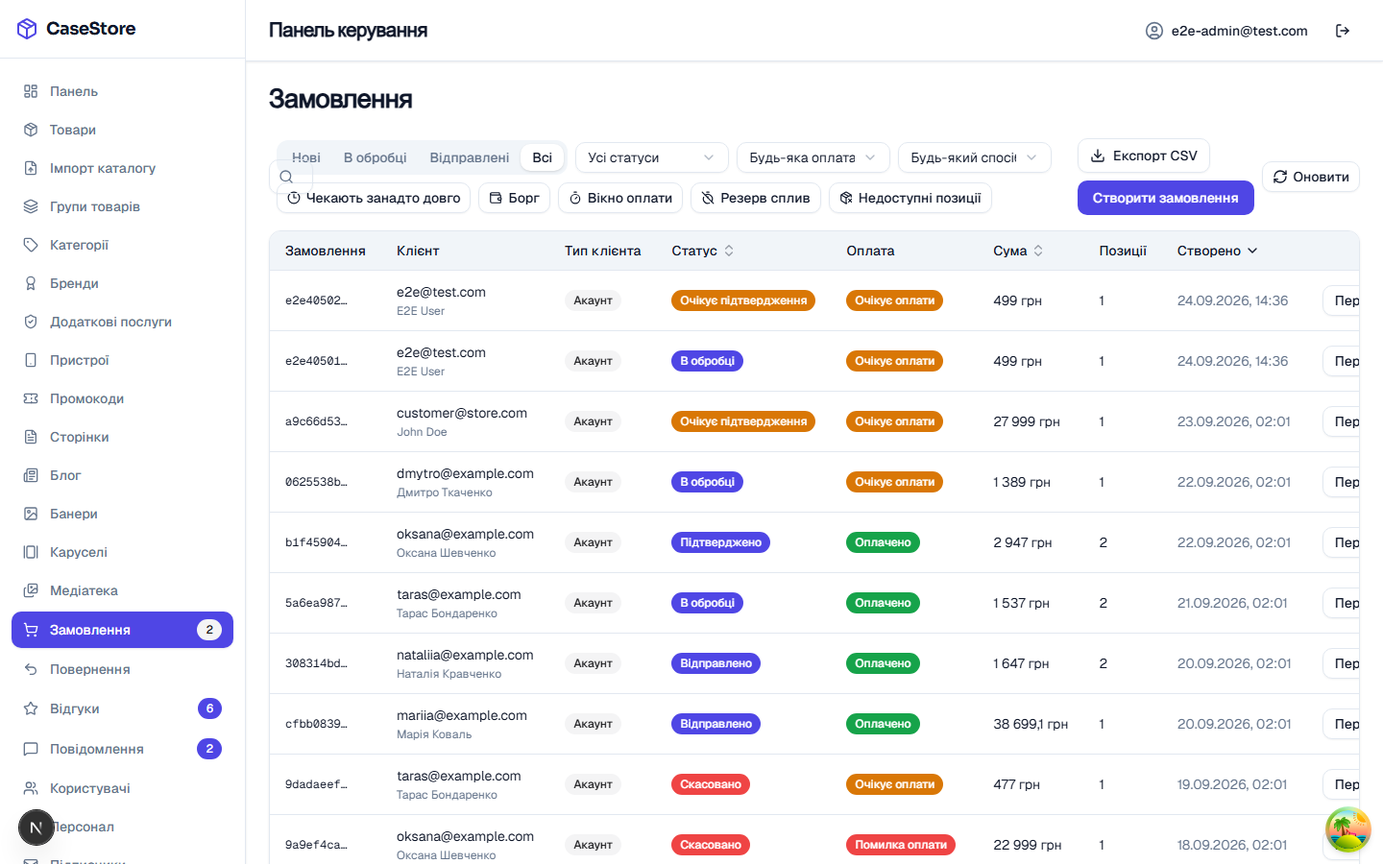
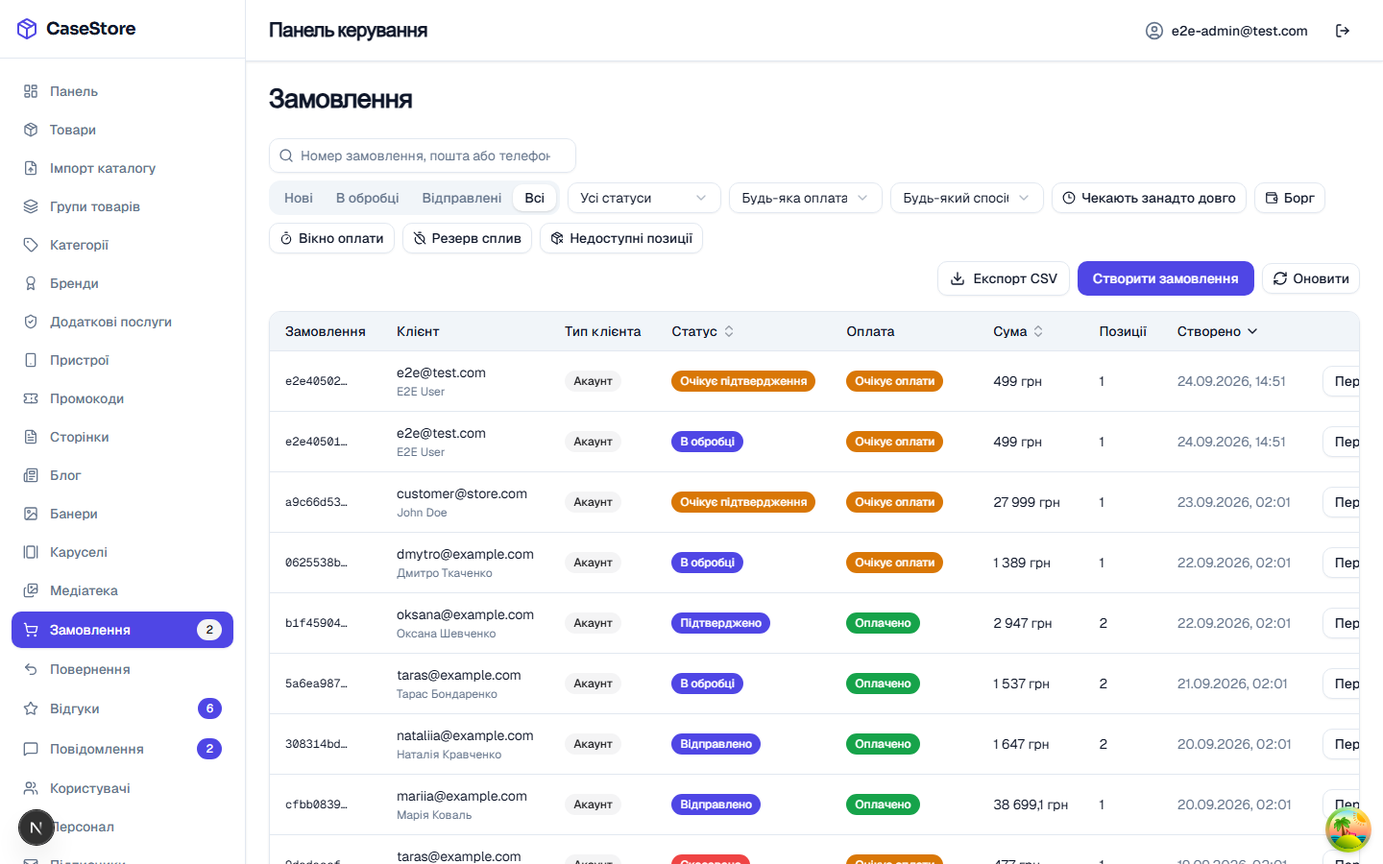
docs(backlog): close TASK-732 via toolbar re-fix and settle wave 190 follow-ups

diff --git a/BACKLOG.md b/BACKLOG.md
@@ -987,7 +987,7 @@
 | TASK-527 | [безпека 🔴, знайдено в TASK-419] `apps/store-admin/src/features/admin-auth/ui/login-form.tsx:54` має рівно ту дірку відкритого редиректу, яку щойно закрито на вітрині: `redirectParam.startsWith("/")` пропускає `//evil.com` (і `/\evil.com`, який браузер нормалізує в те саме) — протокол-відносний URL, який Next-роутер резолвить у ЧУЖИЙ origin і виконує справжню навігацію. Тобто `/login?redirect=//evil.com` = адміністратор вводить справжні креденшли на нашій сторінці й опиняється на сторінці атакувальника. Лікування вже написане: `apps/store-client/src/features/auth/lib/sanitize-redirect-target.ts` (дзеркало серверного `apps/store-api/src/auth/oauth/sanitize-redirect-target.ts`) — перенести копію + тест на `//evil.com`. `apps/store-admin/**` поза смугою TASK-419 — **зроблено 2026-09-24:** адмінка отримала копію полагодженого санітайзера TASK-770 (TAB/LF/CR, `//`, `/\`) для обох шляхів — після входу й для вже залогіненого (df23ee15) | ✅ | [190](docs/plans/190-red-wave-ci-security-money.md) |
 | TASK-550 | [🔴 SEO] `noindexSite` не noindex-ить: `robots.ts` віддає `Disallow: /`, але page-level `robots` не виставляє ніхто, а `llms.txt`, `sitemap.xml` і `merchant-feed.xml` далі віддають 200. Тобто «вимкнути індексацію» на staging не працює так, як обіцяє назва прапорця — **зроблено 2026-09-24:** кореневий layout ставить `robots {index:false, follow:false}` за `noindexSite`, `sitemap.xml` віддає порожній urlset, `llms.txt` і `merchant-feed.xml` — порожній 404 з `no-store`; guard-тест не дає дочірній сторінці повернути `index` (28f81640) | ✅ | [190](docs/plans/190-red-wave-ci-security-money.md) |
 | TASK-583 | [безпека, 🟡] Захист від пиксель-бомби в завантаженні зображень (TASK-424) спирається на дефолтний ліміт `sharp` (~268 млн пікселів), а не на явний `limitInputPixels`. Сьогодні працює правильно, але це неявна залежність від дефолту бібліотеки: глобальний sharp-конфіг або оновлення з іншим дефолтом приберуть ліміт, і в діффі `image-processor.service.ts` цього не буде видно. Задати ліміт явно, з коментарем «чому», і накрити тестом разом із хард-кепом multer (15 МБ) і `LIMIT_FILE_COUNT` — статус-коди для них зараз виведені з коду Nest, а не з прогону. **Частково зроблено в TASK-439:** `MAX_INPUT_PIXELS` задано явно + мок-тест; **у TASK-586** стелю знижено до 60 Mpx і додано межу конкурентності декодування; лишились прогінні тести на хард-кеп multer (тепер 25 МБ) і `LIMIT_FILE_COUNT` — саме вони й досі виведені з коду Nest, а не з прогону — **зроблено 2026-09-24:** e2e на галереї прогоном пришпилили хард-кеп multer (25 МБ проходить, +1 байт → 413 `File too large`) і `LIMIT_FILE_COUNT` (10 → 201, 11 → 400 `Too many files`), коментар «чому» біля `limitInputPixels` (19d0b732) | ✅ | [190](docs/plans/190-red-wave-ci-security-money.md) |
-| TASK-587 | [ревʼю 177, 🟡] GIF-passthrough (`image-upload.service.ts`) зберігає байти клієнта дослівно — без `sharp`, отже без стрипу метаданих (XMP/Comment Extension). Гарантія «EXIF не виживає», яку дає TASK-439, стосується лише растрового шляху JPEG/PNG/WebP, не GIF. Успадковано з TASK-091/424, цією хвилею не внесено; перекодування вбило б анімацію, заради якої passthrough і існує. Варіанти: стрипати метадані без перекодування кадрів або лишити як є і задокументувати межу гарантії — **частково 2026-09-24:** метадані GIF знімаються без перекодування кадрів, памʼять O(input) (bcd2650e, 129a540c, 11bd853e); лишилось виправити застарілі коментарі «client bytes verbatim» у `image-upload.constants.ts:20-23` і `image-processor.service.ts:225-226` | 🔄 | [190](docs/plans/190-red-wave-ci-security-money.md) |
+| TASK-587 | [ревʼю 177, 🟡] GIF-passthrough (`image-upload.service.ts`) зберігає байти клієнта дослівно — без `sharp`, отже без стрипу метаданих (XMP/Comment Extension). Гарантія «EXIF не виживає», яку дає TASK-439, стосується лише растрового шляху JPEG/PNG/WebP, не GIF. Успадковано з TASK-091/424, цією хвилею не внесено; перекодування вбило б анімацію, заради якої passthrough і існує. Варіанти: стрипати метадані без перекодування кадрів або лишити як є і задокументувати межу гарантії — **зроблено 2026-09-24:** метадані GIF знімаються без перекодування кадрів (`storage/strip-gif-metadata.ts`), памʼять O(input) (bcd2650e, 129a540c, 11bd853e); коментарі політики GIF оновлено (e77368c9) | ✅ | [190](docs/plans/190-red-wave-ci-security-money.md) |
 | TASK-606 | [🟡 безпека] `GET /api/orders/guest/:token` (`order.controller.ts:231`) має `@Throttle(20/хв)`, але **не** має `@FailClosedThrottle()`: за відмови Redis публічний токен-ендпоінт лишається без ліміту, тобто стає оракулом для перебору — рівно урок TASK-464 і TASK-493. Сусідній `POST /orders/lookup` цієї хвилі закритий правильно, тож зразок уже поруч — **зроблено 2026-09-24:** `@FailClosedThrottle()` на маршруті, e2e на справжньому `OrderController` (503 за мертвого Redis, сервіс не викликано), `POST /orders/lookup` дописано у список fail-closed маршрутів (5425e9dc) | ✅ | [190](docs/plans/190-red-wave-ci-security-money.md) |
 | TASK-616 | [🔴 CI, передіснуюче] `test/order-restock.repository.int-spec.ts` не піднімається: «Nest can't resolve dependencies of the OrderRepository (PrismaService, CacheService, ?) … ProductIndexer at index [2]». `OrderRepository` отримав третю залежність (`ProductIndexer`, `order.repository.ts:184`) ще **до** цієї хвилі, а `TestingModule` у спеці досі дає лише два провайдери; далі `afterEach` падає вдруге на `prisma.orderStatusHistory`, бо `prisma` так і лишився undefined. 4 тести. Доведено передіснуючим: спека не згадує `ProductIndexer` ні тут, ні на `develop` (`git show develop:…` → 0 збігів), а сама вона цією хвилею не чіпалась. Правка — додати `{ provide: ProductIndexer, useValue: { indexProduct: jest.fn(), … } }` у providers — **зроблено 2026-09-24:** у спеку додано мок `ProductIndexer` (`index`/`remove`, `satisfies ProductIndexer`), teardown прибирає лише свої рядки і не падає вдруге — int 4/4 на store_test (df2cfe3f) | ✅ | [190](docs/plans/190-red-wave-ci-security-money.md) |
 | TASK-617 | [🔴 CI, передіснуюче] `test/dashboard.repository.int-spec.ts` → `getNeedsAction` очікує `pendingReviews = 1`, отримує 0. Хвиля 183 (`e0aa1def`, уже на `develop`) змінила предикат черги модерації в `review.constants.ts`, але int-спеку під нього не оновила; `review.constants.ts` у цій гілці побайтово той самий, що на `develop`, а спеку ми не чіпали. **Як це взагалі знайшлось:** int-тести не ганялись — GitHub Actions заблоковано за білінгом з 2026-07-07, тож джоб `test-int` червоний і невидимий. Заодно виявилось, що спільна `store_test` уже перебрана хвилею 181 (у ній є `20260914140000_access_model`, `20260914160000_drop_role_permissions`, `20260915120000_backfill_customers_card_permission` і немає `role_permissions`), тому прогін цієї хвилі робився на окремій `store_test_180` — дві паралельні гілки ділять одну тестову базу, і це варто розвести через `DATABASE_URL_TEST` на хвилю — **зроблено 2026-09-24:** фікстура дала обом відгукам текст (PENDING — «Awaiting moderation», APPROVED — «Already moderated»), код не чіпали; `test:int -- dashboard` 12/12 (b5a84e68) | ✅ | [190](docs/plans/190-red-wave-ci-security-money.md) |
@@ -1007,7 +1007,7 @@
 | TASK-772 | [🔴 дані, auth] Email не нормалізується (`email String @unique` на `text`, без citext): реєстрація `A@Gmail.com` + вхід через Google `a@gmail.com` створює **другий акаунт**. `@Transform(trim+toLowerCase)` на 4 DTO + міграція-бекфіл; `RegisterDto.email` без `@MaxLength` — **зроблено 2026-09-24:** спільний `normalizeEmail` на всіх 11 email-полях DTO + Google-вхід, створення персоналу і CLI `create-admin`, `@MaxLength(254)` на реєстрації, міграція-бекфіл `users`/`contact_messages` зупиняється на колізіях за регістром (f54c21af, 421798fb) | ✅ | [190](docs/plans/190-red-wave-ci-security-money.md) |
 | TASK-773 | [🔴 вітрина, чекаут] Провал refresh скидає токен у модульній змінній (`instance.ts:284`), але не `isAuthenticated` (`auth.context.tsx:158`) — блок email не рендериться, замовлення йде без `contact` і без `Authorization` → 400 англійською, вихід лише F5. Робити разом із TASK-794 — **зроблено 2026-09-24:** провал refresh у перехоплювачі шле `onSessionExpired`, `AuthProvider` обнуляє сесію (маркер лишається на 429/5xx), чекаут показує гостьовий блок і відкочується на післяплату; кеш запитів при цьому не чиститься — TASK-886 (8c084996) | ✅ | [190](docs/plans/190-red-wave-ci-security-money.md) |
 | TASK-774 | [🔴 дані, імпорт] `excludeAllConflicts` (`use-import-decisions.ts:73-86`) будує мапу з нуля і **замінює** попередню — ручні зняття галочок оператора зникають, написані руками описи перезаписуються й лягають у журнал як застосовані. Фікс: `new Map(previous)` як база — **зроблено 2026-09-24:** «виключити всі конфлікти» тепер додає конфліктні поля до копії попереднього стану (набори рядків копіюються), ручні зняття галочок зберігаються, 2 нові тести (3ead414d) | ✅ | [190](docs/plans/190-red-wave-ci-security-money.md) |
-| TASK-775 | [🔴 адмінка, верстка] `table-toolbar.tsx:80` має `flex-col` без пари `md:flex-row` — 24 тулбари списків стоять колонкою на всіх ширинах. Регресія коміту `be2da26e` «change store name» (2026-09-17). **Корінь TASK-732** — після фікса перепровірити і, ймовірно, закрити його — **зроблено 2026-09-24:** тулбар — колонка до `md`, рядок від `md`, пошук `md:flex-1`, 4 тести; перевірка TASK-732 на 1440 px — AD-ORD-49 (d88c026f) | ✅ | [190](docs/plans/190-red-wave-ci-security-money.md) |
+| TASK-775 | [🔴 адмінка, верстка] `table-toolbar.tsx:80` має `flex-col` без пари `md:flex-row` — 24 тулбари списків стоять колонкою на всіх ширинах. Регресія коміту `be2da26e` «change store name» (2026-09-17). **Корінь TASK-732** — після фікса перепровірити і, ймовірно, закрити його — **зроблено 2026-09-24:** тулбар — колонка до `md`, рядок від `md`, пошук `md:flex-1`, 4 тести; перевірка TASK-732 на 1440 px — AD-ORD-49 (d88c026f); **дофікс 2026-09-24:** скриншоти «після» показали, що в рядку без переносу пошук замовлень стиснувся до 46 px під вкладками — рядок тепер `md:flex-wrap`, пошук `md:min-w-64`, заміряно 320 px у першому рядку (45626cb7, `docs/images/190/README.md`) | ✅ | [190](docs/plans/190-red-wave-ci-security-money.md) |
 | TASK-784 | [повернення, склад] Ліміт «не більше, ніж куплено» (`return.service.ts:313`) рахується поза транзакцією, а в БД немає ні унікального ключа, ні CHECK: два натискання «Подати заявку» дають дві заявки на 1 куплену одиницю, і `restock: true` по обох додає на склад товар, якого не повертали — **зроблено 2026-09-24:** `ReturnRepository.create` у транзакції блокує рядок замовлення (`FOR UPDATE`), перечитує живі повернення і лише тоді вставляє — з двох одночасних заявок на останню одиницю проходить одна (3bccfa4d) | ✅ | [190](docs/plans/190-red-wave-ci-security-money.md) |
 | TASK-785 | [повернення, гроші] `refundedAmount` (`resolve-return.dto.ts:46`) валідується лише формою — ні стелі по `order.total`, ні по вартості повернутих позицій, ні по вже виплаченому. `49900` замість `499.00` приймається, тече в `refundedTotal` і в звіти B-8. Межу продублювати в zod-схемі адмінки — **зроблено 2026-09-24:** бекенд у транзакції під `FOR UPDATE` на замовленні відхиляє суму понад вартість повернутих позицій (`RETURN_REFUND_EXCEEDS_RETURNED_VALUE`) і понад залишок замовлення за вирахуванням інших повернень (`RETURN_REFUND_EXCEEDS_ORDER_BALANCE`), 400 (adc6e2eb); zod-дзеркало в адмінці — **зроблено 2026-09-24:** стеля по вартості повернутих позицій у zod форми, 400 обох стель показується під полем суми (ea68ff48); стеля залишку замовлення у формі не підключена → TASK-959 | ✅ | [190](docs/plans/190-red-wave-ci-security-money.md) |
 | TASK-794 | [обидві апки, форми] «Мовчазна кнопка» ×5: блокуюче `max()` у zod на полі без рендеру помилки і без `maxLength` — `order-create-form.tsx:384-402`, `return-resolve-form.tsx:193-199`, `profile-form.tsx:93,100`, `submit-review-form.tsx:314` і латентно `checkout-view.tsx:128-149`. Останній **активує TASK-773**, тож робити разом. Зразок поруч: `checkout-view.tsx:267` — **частково 2026-09-24:** вітрина готова — профіль (ім'я/прізвище ≤100) і відгук (≤1000, лічильник) показують помилку й мають `maxLength`, заблокований сабміт на кроці 2 чекауту повертає на крок 1 з фокусом на полі (8c084996); адмінка — **зроблено 2026-09-24:** `order-create-form` (примітки ≤500/≤2000) і `return-resolve-form` (нотатки ≤2000) мають `maxLength`, `aria-invalid` і помилку під полем (ea68ff48) | ✅ | [190](docs/plans/190-red-wave-ci-security-money.md) |
@@ -1037,8 +1037,8 @@
 | TASK-955 | [знайдено в TASK-623] Уже видані операторські посилання на акаунтні замовлення лишаються дійсними: `getGuestOrder` (`apps/store-api/src/order/order.service.ts:532-553`) не перевіряє `userId`, а відкликання/бекфілу, що чистить `accessTokenHash` на акаунтних замовленнях, які отримали лінк старим шляхом перевидачі, немає — експозиція живе до кінця 60-денного TTL. Потрібна одноразова очистка або перевірка `userId === null` у `getGuestOrder` | ⬜ | [190](docs/plans/190-red-wave-ci-security-money.md) |
 | TASK-971 | [знайдено в TASK-583] GIF-passthrough не обмежує розміри кадру: `probe()` і `detectFormat()` (`image-processor.service.ts:232`, `:252`) викликають `sharp(buffer).metadata()` без `limitInputPixels` — бомби декодування немає (читається лише заголовок), але анімований GIF 60000×60000 зберігається й віддається як є, декодує його браузер клієнта. Вирішити, чи `probe()` має відхиляти розміри понад `MAX_INPUT_PIXELS` (стрип метаданих GIF — окремо, TASK-587) | ⬜ | [190](docs/plans/190-red-wave-ci-security-money.md) |
 | TASK-972 | [знайдено в TASK-583] [тести] Прогінні e2e пришпилюють ліміти multer лише на галереї (`FilesInterceptor`, 10 файлів); одно-файлові маршрути зі спільним `imageMulterOptions` — `media.controller.ts:127` (SINGLE_FILE) і `admin-seo-settings.controller.ts:138` (логотип) — не мають прогінного тесту на ліміт у 1 файл | ⬜ | [190](docs/plans/190-red-wave-ci-security-money.md) |
-| TASK-884 | [знайдено в TASK-775] Застарілий коментар про `md:flex-nowrap` у тулбарі: `apps/store-admin/src/widgets/order-list/ui/admin-order-table.tsx:148` згадує клас `md:flex-nowrap`, який d88c026f прибрав із `table-toolbar.tsx`; зміст досі правдивий (flex-рядок від `md` не переноситься за замовчуванням), але назва класу вже неіснуюча — оновити коментар | ⬜ | [190](docs/plans/190-red-wave-ci-security-money.md) |
-| TASK-885 | [знайдено в TASK-774] Хибний шлях хука в плані 190: `docs/plans/190-red-wave-ci-security-money.md:36` (файли смуги R-admin) називає `features/catalog-import/model/use-import-decisions.ts`, а файл лежить у `apps/store-admin/src/widgets/catalog-import-view/model/use-import-decisions.ts` (так і в ревʼю `docs/reviews/2026-09-code-review.md:149`); лише документація — виправити шлях | ⬜ | [190](docs/plans/190-red-wave-ci-security-money.md) |
+| TASK-884 | [знайдено в TASK-775] Застарілий коментар про `md:flex-nowrap` у тулбарі: `apps/store-admin/src/widgets/order-list/ui/admin-order-table.tsx:148` згадує клас `md:flex-nowrap`, який d88c026f прибрав із `table-toolbar.tsx`; зміст досі правдивий (flex-рядок від `md` не переноситься за замовчуванням), але назва класу вже неіснуюча — оновити коментар — **закрито 2026-09-24:** коментар переписано разом із дофіксом тулбару (45626cb7) | ✅ | [190](docs/plans/190-red-wave-ci-security-money.md) |
+| TASK-885 | [знайдено в TASK-774] Хибний шлях хука в плані 190: `docs/plans/190-red-wave-ci-security-money.md:36` (файли смуги R-admin) називає `features/catalog-import/model/use-import-decisions.ts`, а файл лежить у `apps/store-admin/src/widgets/catalog-import-view/model/use-import-decisions.ts` (так і в ревʼю `docs/reviews/2026-09-code-review.md:149`); лише документація — виправити шлях — **закрито 2026-09-24:** шлях у плані 190 виправлено | ✅ | [190](docs/plans/190-red-wave-ci-security-money.md) |
 | TASK-886 | [знайдено в TASK-773] Після провалу refresh кеш запитів не чиститься: новий слухач лише обнуляє стан React (`auth.context.tsx:136`, `dropSessionState`), а явні виходи роблять `queryClient.clear()` (`header.tsx:67-68`, `header-auth.tsx:30-31`, `logout-button.tsx:17-18`). Ключ `getGetCartQueryKey()` не залежить від користувача, тож чекаут гостем показує кошик колишнього користувача, а гостьовий `cartToken` стерто при злитті кошика на вході (`auth.controller.ts:648-653`) → «Оформити» дає 400 англійською `Cart is empty` (`order.service.ts:275`). Тести `checkout-view` цього не ловлять — мокають `GET /api/cart` однаково для всіх. Глухий кут C4 закрито лише наполовину | ⬜ | [190](docs/plans/190-red-wave-ci-security-money.md) |
 | TASK-887 | [знайдено в TASK-773] Схема чекауту без стель під бекенд: `features/checkout/model/checkout-schema.ts` має лише `min(1)` на firstName/lastName/city/deliveryAddress і жодного `max` на гостьовому email, а `address.dto.ts` обмежує 100/100/…/255, `guest-contact.dto.ts` — email 254 і name 120 (firstName+lastName разом). Задовге значення проходить клієнт і вертається 400 англійською під кнопкою замість помилки поля — той самий клас, що W19, лише гучний | ⬜ | [190](docs/plans/190-red-wave-ci-security-money.md) |
 | TASK-888 | [знайдено в TASK-773] Шоста «мовчазна кнопка» класу W19: `widgets/contact/model/contact-schema.ts:35` — `orderRef: z.string().trim().max(120).optional()` без повідомлення, а поле в `widgets/contact/ui/contact-form.tsx:235-239` без `maxLength` і без рендеру помилки → номер замовлення 121+ символ мовчки блокує надсилання (`topic max(60)` задається лише кнопками — недосяжний) | ⬜ | [190](docs/plans/190-red-wave-ci-security-money.md) |
@@ -1047,7 +1047,7 @@
 | TASK-890 | [знайдено в TASK-772] Неефективний обхід тротлера в e2e store-api: 33 спеки в `apps/store-api/test` (cart, user, staff, review, returns, newsletter…) роблять `.overrideProvider(APP_GUARD).useClass(ThrottlerGuardPassThrough)`, але це не доходить до глобального `ClientIpThrottlerGuard` (задокументовано в `order.e2e-spec.ts`) — кожна з них за один запит під `@Throttle` від хибних 429; перевести на override `ThrottlerStorage`, як у `auth.e2e-spec.ts` | ⬜ | [190](docs/plans/190-red-wave-ci-security-money.md) |
 | TASK-891 | [знайдено в TASK-772] Email власника в сіді не нормалізується: `apps/store-api/prisma/seed/seeders/users.seeder.ts:75` робить upsert із сирим `ADMIN_SEED_EMAIL` — значення в змішаному регістрі створить рядок, якого (тепер нормалізуючий) вхід не знайде; фікс в один рядок `normalizeEmailAddress(...)`, як у `create-admin.ts` | ⬜ | [190](docs/plans/190-red-wave-ci-security-money.md) |
 | TASK-892 | [знайдено в TASK-772] Подвійне приведення email у `ContactService`: `apps/store-api/src/contact/contact.service.ts:101` робить `dto.email.trim().toLowerCase()` для перевірки кулдауна, хоча DTO вже нормалізує; нешкідливо — прибрати при чистці | ⬜ | [190](docs/plans/190-red-wave-ci-security-money.md) |
-| TASK-893 | [знайдено в TASK-772] Orval-клієнти не перегенеровані під `maxLength: 254` на `RegisterDto.email`: `swagger.json` уже містить обмеження, а `shared/api/generated/` у store-client і store-admin — ні (codegen заборонено смугою); прогнати `generate:api` після хвилі й звірити zod-схему реєстрації | ⬜ | [190](docs/plans/190-red-wave-ci-security-money.md) |
+| TASK-893 | [знайдено в TASK-772] Orval-клієнти не перегенеровані під `maxLength: 254` на `RegisterDto.email`: `swagger.json` уже містить обмеження, а `shared/api/generated/` у store-client і store-admin — ні (codegen заборонено смугою); прогнати `generate:api` після хвилі й звірити zod-схему реєстрації — **частково 2026-09-24:** `swagger:export` + `generate:api` прогнано після хвилі (згенероване в gitignore, комітити нічого); лишилось: zod реєстрації вітрини (`features/auth/ui/register-form.tsx:21`) без `.max(254)` — задовгий email дістане від API 400 без підказки під полем | 🔄 | [190](docs/plans/190-red-wave-ci-security-money.md) |
 | TASK-943 | [знайдено в TASK-772] Два нормалізатори email не тотожні: міграція `20260924120000_normalize_user_email` використовує Postgres `trim()` (лише пробіли), а `normalizeEmailAddress` — JS `String.trim()` (ще таби й NBSP); для наявних рядків нешкідливо, бо `@IsEmail` завжди відкидав крайові пробіли, — зафіксувати розбіжність у коментарі міграції або вирівняти при наступному бекфілі | ⬜ | [190](docs/plans/190-red-wave-ci-security-money.md) |
 | TASK-894 | [знайдено в TASK-650] Застарілий коментар у `payment-attempt.ts`: `apps/store-client/src/features/checkout/lib/payment-attempt.ts:14-15` стверджує, що `OrderEntity` не має `paymentMethod`, але згенерований `orderEntity.ts:35` його має — коментар хибний, а маркер у sessionStorage, який він обґрунтовує, можливо, вже не потрібен | ⬜ | [190](docs/plans/190-red-wave-ci-security-money.md) |
 | TASK-895 | [знайдено в TASK-650] Застаріле пояснення в `checkout-schema.ts`: коментар `apps/store-client/src/features/checkout/model/checkout-schema.ts:51-54` досі пояснює збіг вибору й збереженого значення через дефолт колонки на бекенді — логіка до TASK-650; тепер значення шлеться явно, оновити текст (не хибний, лише застарілий) | ⬜ | [190](docs/plans/190-red-wave-ci-security-money.md) |
@@ -1071,7 +1071,7 @@
 | TASK-913 | [знайдено в TASK-736] Вітрина: `disabled:opacity-50` лишився на кнопках поза `shared/ui`: `add-to-cart-button.tsx:120`, `change-password-form.tsx:225/235`, `forgot-password-form.tsx:122`, `login-form.tsx:263`, `logout-button.tsx:34`, `register-form.tsx:302`, `reset-password-form.tsx:162`, `account-email-verification.tsx:52`, `account-view.tsx:204`, `header.tsx:199`, `product-detail-view.tsx:317`, `product-sibling-navigator.tsx:162`, `product-list-view.tsx:340`, `wishlist-view.tsx:372` — той самий низький контраст, що й у TASK-736 (частина кладе `primary-foreground` на прозорий `primary`); перевести на `bg-disabled`/`text-disabled-foreground` | ⬜ | [190](docs/plans/190-red-wave-ci-security-money.md) |
 | TASK-914 | [знайдено в TASK-736] Вітрина: сирі `<button>` із `disabled:opacity-40/60`, яких нема в списку TASK-913: `widgets/cart/ui/cart-item-row.tsx:445,465` (40), `newsletter-subscribe-form.tsx:112`, `order-lookup-form.tsx:200`, `contact-form.tsx:300`, `info-contact-form.tsx:174`, `wishlist-toggle-button.tsx:115` (усі 60), `product-sibling-navigator.tsx:155` (40); перевести на токени неактивного стану | ⬜ | [190](docs/plans/190-red-wave-ci-security-money.md) |
 | TASK-915 | [знайдено в TASK-736] Вітрина `shared/ui`: `account-dropdown.tsx:231` (`pointer-events-none opacity-50` на неактивному пункті меню) і `slider.tsx:46` (`data-[disabled]:opacity-50`) досі тьмянять прозорістю — поза шістьма файлами TASK-736, та сама проблема контрасту | ⬜ | [190](docs/plans/190-red-wave-ci-security-money.md) |
-| TASK-916 | [знайдено в TASK-736] Адмінська половина 735/736: приймання плану 190 для 735/736 охоплює обидві апки й просить Playwright-скриншоти до/після, а TASK-736 змінив лише store-client — `shared/ui` store-admin, імовірно, досі з shadcn-дефолтом `disabled:opacity-50`; зробити адмінку й зняти скриншоти для звіту хвилі | ⬜ | [190](docs/plans/190-red-wave-ci-security-money.md) |
+| TASK-916 | [знайдено в TASK-736] Адмінська половина 735/736: приймання плану 190 для 735/736 охоплює обидві апки й просить Playwright-скриншоти до/після, а TASK-736 змінив лише store-client — `shared/ui` store-admin, імовірно, досі з shadcn-дефолтом `disabled:opacity-50`; зробити адмінку й зняти скриншоти для звіту хвилі — **закрито 2026-09-24:** адмінку зроблено в межах TASK-735 (7050560b), скриншоти до/після — `docs/images/190/` | ✅ | [190](docs/plans/190-red-wave-ci-security-money.md) |
 | TASK-917 | [знайдено в TASK-736] Косметика `tabs.tsx` вітрини: вкладка, що одночасно активна й неактивна, отримує `text-foreground`, бо `data-[state=active]:text-foreground` має ту саму специфічність і емітиться після `disabled:text-disabled-foreground`; обидва кольори проходять контраст | ⬜ | [190](docs/plans/190-red-wave-ci-security-money.md) |
 | TASK-918 | [знайдено в TASK-736] Косметика `select.tsx:40` вітрини: у `SelectTrigger` нема `disabled:pointer-events-none`, а `dark:hover:bg-input/50` (та сама специфічність 0,2,0, емітиться пізніше) перебиває `disabled:bg-disabled` — у темній темі неактивний селект на наведенні міняє плаский сірий на `input/50` (контраст ≈5,9:1, не порушення WCAG) | ⬜ | [190](docs/plans/190-red-wave-ci-security-money.md) |
 | TASK-919 | [знайдено в TASK-757] Перейти на prisma 8 до спливу allowlist 2026-11-30: `scripts/audit-gate.js` пропускає `prisma`, `@prisma/config` і `deepmerge-ts` (GHSA-ggr8-5vv4-36mx) до 2026-11-30; усі prisma 7.x (зокрема 7.10.0) пінять deepmerge-ts 7.1.5, а prisma 8 станом на 2026-09-24 — лише 8.0.0-rc.15. Після дати CI червоніє, якщо не оновити prisma або свідомо не продовжити запис. Записи allowlist зараз несуть заглушку TASK-757 — замінити на TASK-919 | ⬜ | [190](docs/plans/190-red-wave-ci-security-money.md) |
@@ -1089,7 +1089,7 @@
 | TASK-931 | [знайдено в TASK-618] Callback провалу без суми отримує 400: `PaymentService.assertMoneyMatches` навмисно пропускає звірку для FAILED («providers routinely omit the amount»), а `OrderService.assertAmountMatches` (`apps/store-api/src/order/order.service.ts:1704-1706`) і далі вимагає точної суми — `toCents('')` = NaN → 400, ключ знімається, провайдер ретраїть безкінечно. Та сама суперечність, що в TASK-618, але для FAILED | ⬜ | [190](docs/plans/190-red-wave-ci-security-money.md) |
 | TASK-932 | [знайдено в TASK-619] Адмінка не показує «оплачено після скасування»: колонка `order_status_history.note` пишеться, але її немає в `OrderStatusHistoryEntity` і Swagger — таймлайн показує звичайний PENDING → PAID. Потрібні поле сутності, регенерація API й підпис в адмінці; список «Потребує дії» (план 192 / TASK-352) має шукати `note = 'PAID_AFTER_CANCEL'` серед замовлень, що досі CANCELLED із PAID | ⬜ | [190](docs/plans/190-red-wave-ci-security-money.md) |
 | TASK-933 | [знайдено в TASK-619] Пізні оплати до TASK-619 не позначені: замовлення, які старий код оживив вебхуком CANCELLED → CONFIRMED, не мають `note` (STATUS-рядок з `changedBy = null`, без резерву) і можуть бути CONFIRMED з нульовим стоком — разовий аудит-запит на демо-стенді | ⬜ | [190](docs/plans/190-red-wave-ci-security-money.md) |
-| TASK-934 | [знайдено в TASK-619] store_pw потребує нової міграції `20260924130000_order_history_note`: регенерований Prisma-клієнт читає `order_status_history.note`, тож перед наступним `test:e2e:pw` треба `migrate deploy` на store_pw (або щоб сетап його робив), інакше читання історії падає на відсутній колонці | ⬜ | [190](docs/plans/190-red-wave-ci-security-money.md) |
+| TASK-934 | [знайдено в TASK-619] store_pw потребує нової міграції `20260924130000_order_history_note`: регенерований Prisma-клієнт читає `order_status_history.note`, тож перед наступним `test:e2e:pw` треба `migrate deploy` на store_pw (або щоб сетап його робив), інакше читання історії падає на відсутній колонці — **закрито 2026-09-24:** `migrate deploy` на store_pw застосовано, store_dev і store_test уже мали міграцію; дрейфу схеми немає (`migrate diff` порожній) | ✅ | [190](docs/plans/190-red-wave-ci-security-money.md) |
 | TASK-935 | [знайдено в TASK-619] TOCTOU вебхук × TTL-скасування: `applyPaymentEvent` (`order.service.ts:1625`) читає `order.status` поза транзакцією, а `applyPaymentOutcome` (`order.repository.ts:1444-1461`) пише `status: CONFIRMED` безумовним `tx.order.update({ where: { id } })`, не `updateMany where status = from`. Вебхук прочитав PENDING → воркер звірки скасував і повернув сток → вебхук комітить CONFIRMED + PAID: той самий дефект TASK-619 (CONFIRMED із `restockedAt` і без стоку). Вікно вузьке, передіснує | ⬜ | [190](docs/plans/190-red-wave-ci-security-money.md) |
 | TASK-936 | [знайдено в TASK-619] Зворотна гонка у воркері звірки: `payment-reconcile.worker.ts:185-191` бере прострочені з `findExpiredReservations`, і якщо між вибіркою й `updateStatus(CANCELLED)` прийшов `success` (CONFIRMED + PAID, резерв знято), повторно не перевіряються `reservationExpiresAt`/`paymentStatus` — CONFIRMED→CANCELLED легальний, тож оплачене замовлення скасовується і сток повертається. Передіснує | ⬜ | [190](docs/plans/190-red-wave-ci-security-money.md) |
 | TASK-937 | [знайдено в TASK-619] Дашборд рахує CANCELLED + PAID_AFTER_CANCEL у виручку: `dashboard.repository.ts:172,181,280,491,555` фільтрують лише `paymentStatus = PAID`, не статус замовлення, тож таке замовлення потрапляє у виручку й топ товарів до рефанду. Можливо прийнятно (гроші отримано), але має бути свідомим рішенням — напр. у плані 192 | ⬜ | [190](docs/plans/190-red-wave-ci-security-money.md) |
@@ -1392,7 +1392,7 @@
 
 | Task ID | Description | Status | Plan |
 | --- | --- | --- | --- |
-| TASK-732 | [адмінка, верстка] Список замовлень на ширині 1440 px: рядок вкладок «Нові / В обробці / Відправлені / Всі» + три селекти не лишають місця полю пошуку — воно стискається до значка лупи під вкладками й перекривається ними (видно на `docs/images/admin-guide/20-orders.jpg`, демо-стенд 2026-09-17). Шукати за номером/телефоном, найчастіша дія оператора, на десктопі фактично недоступно | ⬜ | [198](docs/plans/198-admin-by-mockups.md) |
+| TASK-732 | [адмінка, верстка] Список замовлень на ширині 1440 px: рядок вкладок «Нові / В обробці / Відправлені / Всі» + три селекти не лишають місця полю пошуку — воно стискається до значка лупи під вкладками й перекривається ними (видно на `docs/images/admin-guide/20-orders.jpg`, демо-стенд 2026-09-17). Шукати за номером/телефоном, найчастіша дія оператора, на десктопі фактично недоступно — **закрито 2026-09-24 дофіксом TASK-775** (45626cb7): тулбар від `md` переноситься, пошук тримає 16rem; на 1440 px поле 320 px у першому рядку, без перекриття (заміри й знімки — `docs/images/190/README.md`); щільність тулбару — питання макетів плану 198 | ✅ | [198](docs/plans/198-admin-by-mockups.md), [190](docs/plans/190-red-wave-ci-security-money.md) |
 | TASK-734 | [адмінка, верстка] «Вхідні повідомлення» на 1440 px: довгий текст у колонці «Повідомлення» не обрізається й налазить на бейдж «Статус» і дату «Отримано» (рядки з реальними зверненнями, `docs/images/admin-guide/43-messages.jpg`) | ⬜ | [198](docs/plans/198-admin-by-mockups.md) |
 
 ## How to Update This File

diff --git a/docs/images/190/README.md b/docs/images/190/README.md
@@ -35,7 +35,7 @@ SCREENS_190=after DATABASE_URL=postgresql://postgres:postgres@localhost:5432/sto
 | Фільтри, 390                                             | [до](before/sf-filters-390.png)      | [після](after/sf-filters-390.png)      | Те саме: сторінка під шухлядою більше не розширюється на 10 px                                                                                                                                                                                                                                                                    | ✅ TASK-510                                                                                                                                          |
 | Адмінка: вхід                                            | [до](before/ad-login.png)            | [після](after/ad-login.png)            | Знімки ідентичні попіксельно (0 px)                                                                                                                                                                                                                                                                                               | ✅ Без змін (форма без помилок і без неактивних елементів)                                                                                           |
 | Адмінка: товари                                          | [до](before/ad-products.png)         | [після](after/ad-products.png)         | Раніше тулбар стояв колонкою: вузький пошук 238 px по центру, селекти окремим рядком, «Оновити» ще одним. Тепер усе в одному рядку: пошук ліворуч (≈320 px), три селекти, «Оновити». Таблиця піднялась на 80 px                                                                                                                   | ✅ TASK-775                                                                                                                                          |
-| Адмінка: замовлення, 1440                                | [до](before/ad-orders-1440.png)      | [після](after/ad-orders-1440.png)      | Тулбар теж став рядком, але **поле пошуку стиснулось до 46 px** (самий значок лупи) і опинилось під лівим краєм вкладок «Нові / В обробці / …». Вкладки перекривають верхню половину поля. «Експорт CSV», «Створити замовлення» й «Оновити» розсипались сходами                                                                   | ❌ **Регресія TASK-775**: саме той симптом, який описує TASK-732 (див. висновок нижче)                                                               |
+| Адмінка: замовлення, 1440                                | [до](before/ad-orders-1440.png)      | [після](after/ad-orders-1440.png)      | Тулбар теж став рядком, але **поле пошуку стиснулось до 46 px** (самий значок лупи) і опинилось під лівим краєм вкладок «Нові / В обробці / …». Вкладки перекривають верхню половину поля. «Експорт CSV», «Створити замовлення» й «Оновити» розсипались сходами                                                                   | ❌ **Регресія першого фіксу TASK-775** — **виправлено дофіксом**: поле 320 px у першому рядку, фільтри переносяться (див. висновок нижче)            |
 | Адмінка: картка замовлення                               | [до](before/ad-order-detail.png)     | [після](after/ad-order-detail.png)     | Для замовлення з акаунтом блок «Посилання для покупця» тепер пояснює, що посилання видаються лише для гостьових замовлень. Кнопки «Видати нове посилання» більше немає                                                                                                                                                            | ✅ Очікувано, але це не з п'яти задач: TASK-623 (286eb884)                                                                                           |
 | Адмінка: імпорт каталогу                                 | [до](before/ad-catalog-import.png)   | [після](after/ad-catalog-import.png)   | Змінились лише рамки лічильників у сайдбарі (370 px)                                                                                                                                                                                                                                                                              | ✅ TASK-735 (рамки з утиліт)                                                                                                                         |
 | Адмінка: неактивний елемент (`/products/new`, «+ рядок») | [до](before/ad-disabled-control.png) | [після](after/ad-disabled-control.png) | Раніше неактивні кнопки таблиці в тулбарі rich-text («+ рядок», «− рядок», «± стовпець», кошик, «прибрати посилання») були майже невидимі. Тепер у них сіра заливка `disabled` і читабельний текст                                                                                                                                | ✅ TASK-735/736 (адмінка), із застереженням: неактивні кнопки тепер виглядають помітнішими за активні сусідні кнопки-привиди без заливки             |
@@ -64,13 +64,13 @@ SCREENS_190=after DATABASE_URL=postgresql://postgres:postgres@localhost:5432/sto
 
 ### TASK-732 — пошук у списку замовлень, 1440×900
 
-|                                               | До                                     | Після              |
-| --------------------------------------------- | -------------------------------------- | ------------------ |
-| видимий (`isVisible`)                         | так                                    | так                |
-| ширина × висота поля                          | 238 × 36                               | **46 × 36**        |
-| позиція поля (x, y)                           | 729, 144 (окремий рядок над вкладками) | 280, 166           |
-| вкладки статусів (x, y, ширина × висота)      | 280, 188, 303 × 36                     | 288, 146, 303 × 36 |
-| `elementFromPoint` у центрі поля — саме поле? | так                                    | так*               |
+|                                               | До                                     | Після першого фіксу 775 | Після дофіксу 775 (поточний [знімок](after/ad-orders-1440.png)) |
+| --------------------------------------------- | -------------------------------------- | ----------------------- | --------------------------------------------------------------- |
+| видимий (`isVisible`)                         | так                                    | так                     | так                                                             |
+| ширина × висота поля                          | 238 × 36                               | **46 × 36**             | **320 × 36**                                                    |
+| позиція поля (x, y)                           | 729, 144 (окремий рядок над вкладками) | 280, 166                | 280, 144 (перший рядок)                                         |
+| вкладки статусів (x, y, ширина × висота)      | 280, 188, 303 × 36                     | 288, 146, 303 × 36      | 280, 188, 303 × 36 (другий рядок)                               |
+| `elementFromPoint` у центрі поля — саме поле? | так                                    | так*                    | так, без перекриття                                             |
 
 \* Центр поля (303, 184) лежить на 2 px нижче за нижній край вкладок (182), тому перевірка
 проходить. Але вкладки займають y 146–182 і x від 288, а поле — y 166–202 і x 280–326. Отже
@@ -79,7 +79,17 @@ SCREENS_190=after DATABASE_URL=postgresql://postgres:postgres@localhost:5432/sto
 
 ## Висновок щодо TASK-732
 
-**Не закрито.** На 1440 px пошук у списку замовлень **гірший, ніж до хвилі**. До TASK-775
+**Оновлено після дофіксу TASK-775 (2026-09-24): пошук повернуто, TASK-732 закривається.**
+Дофікс у `shared/ui/table-toolbar.tsx`: рядок тулбару від `md` переноситься (`md:flex-wrap`), а
+обгортка пошуку тримає мінімум 16rem (`md:min-w-64`). Заміряно тим самим тестом на 1440×900:
+поле 320 × 36 у першому рядку, у центрі поля — саме поле, вкладки й фільтри перейшли на
+другий і третій рядки, «Експорт CSV / Створити замовлення / Оновити» стоять окремим рядком
+праворуч. Сторінка «Товари» лишилась в один рядок ([знімок](after/ad-products.png)). Щільність
+тулбару замовлень (3½ рядки над таблицею) — питання макетів адмінки (план 198), не
+доступності пошуку. Нижче — первинний висновок, записаний до дофіксу; він лишається як
+пояснення, чому перший фікс 775 цей симптом створив.
+
+**Первинний висновок (до дофіксу): не закрито.** На 1440 px пошук у списку замовлень **гірший, ніж до хвилі**. До TASK-775
 тулбар стояв колонкою, і поле пошуку 238 px, хоч і вузьке, видне й нічим не перекрите.
 Після TASK-775 тулбар став рядком, і відтворився саме описаний у TASK-732 симптом: поле
 стиснулось до значка лупи (46 px) під вкладками, і вкладки його перекривають. Отже TASK-775

diff --git a/docs/plans/190-red-wave-ci-security-money.md b/docs/plans/190-red-wave-ci-security-money.md
@@ -1,6 +1,6 @@
 # План 190 — Червоне: CI, безпека, гроші
 
-**Статус:** ⬜ · **Задачі:** 30 рядків (див. кластери) · **Гілка:** `worktree-fix-770-red-wave`
+**Статус:** ⬜ · **Задачі:** 30 рядків (див. кластери) · **Гілка:** `fix/770-red-wave`
 (worktree `fix-770-red-wave`) · **Після:** Z0 і B-11 (рішення для TASK-493) · **Джерело:**
 [ревʼю якості 2026-09-20](../reviews/2026-09-code-review.md) (6 CRITICAL), знахідки ревʼю хвиль
 180/181/183, хвости 174/176/179, [інвентар циклу 2](../reviews/2026-09-23-cycle-2-inventory.md).
@@ -33,7 +33,7 @@
 | ------------- | --------------------------------------------------------------------------------------------- | ------------------------------------------------------------------------------------------------------------------------------------------------------------------------------------------------------------------------------------------------------------------------------------------------------------------------------------------------------------------------------------------------------------------------------------------------------------------------------------------------------------------------------------------------------------------------------------------------------------------------------------------------------------------- |
 | **R-API**     | 616, 617, 756, 757, 770, 771, 772, 618, 619, 784, 785, 606, 493, 623, 624, 496, 583, 587, 748 | `test/order-restock.repository.int-spec.ts`, `test/dashboard.repository.int-spec.ts`, `scripts/env-check.js` + `env.validation.ts`, `scripts/audit-gate.js` + allowlist, `auth/…sanitize-redirect` і дзеркало у вітрині `features/auth/lib/sanitize-redirect-target.ts`, `order.repository.ts` (`cancelAndRestock`, `reviveAndReserve`), `payment.service.ts` + `order.service.ts` (`assertAmountMatches`, `applyPaymentOutcome`), `return.service.ts`, `resolve-return.dto.ts`, `order.controller.ts` (guest/lookup throttle), `auth.controller.ts` (fail-closed на двох POST), `auth.service.ts` (`refreshToken`), міграція нормалізації email, `storage/image-*` |
 | **R-вітрина** | 773 + 794 (вітринна частина), 650, 743, 510, 550, 735 і 736 (вітринна частина)                | `shared/api/instance.ts`, `entities/session/model/auth.context.tsx`, `checkout-view.tsx`, `profile-form.tsx`, `submit-review-form.tsx`, `use-checkout.ts` + `payment-methods.ts`, `shared/ui/logo.test.tsx`, `globals.css` (`@layer base`, `scrollbar-gutter`), `shared/ui` (disabled-стани), `app/robots.ts` + metadata `robots` + `llms.txt`/`sitemap`/`merchant-feed`                                                                                                                                                                                                                                                                                            |
-| **R-адмінка** | 775, 527, 774, 794 і 735 (адмінська частина)                                                  | `shared/ui/table-toolbar.tsx`, `features/admin-auth/ui/login-form.tsx`, `features/catalog-import/model/use-import-decisions.ts`, `order-create-form.tsx`, `return-resolve-form.tsx`, `globals.css` адмінки                                                                                                                                                                                                                                                                                                                                                                                                                                                          |
+| **R-адмінка** | 775, 527, 774, 794 і 735 (адмінська частина)                                                  | `shared/ui/table-toolbar.tsx`, `features/admin-auth/ui/login-form.tsx`, `widgets/catalog-import-view/model/use-import-decisions.ts`, `order-create-form.tsx`, `return-resolve-form.tsx`, `globals.css` адмінки                                                                                                                                                                                                                                                                                                                                                                                                                                                      |
 
 **Порядок усередині хвилі** — за ревʼю якості: 775 → 770 → 772 → 771 → 774 → 773 разом із 794 → решта.
 Кластери паралельні, дві залежності між ними:
@@ -102,7 +102,7 @@ node scripts/env-check.js --audit && node scripts/audit-gate.js
 `test:int` і `test:e2e:pw` у `npm run test` не входять — запускати окремо (урок плану 181).
 Закриваючи задачу — `[🔁]` на її чеках у `docs/qa-recheck.md` і id у Додатку А. Нові чеки:
 AD-ORD-48 (повернення на 1 куплену одиницю двічі), SF-CHK-30 (онлайн-замовлення має резерв 30 хв),
-SF-SEO-20 (noindexSite), AD-AUTH-10 (редирект із TAB у логіні адмінки) — перед додаванням звірити,
+SF-SEO-20 (noindexSite), AD-AUTH-11 (редирект із TAB у логіні адмінки; AD-AUTH-10 уже зайнятий у `qa-manual-full.md` — «Вихід») — перед додаванням звірити,
 що id вільні в `qa-manual-full.md`.
 
 ## Ризики

diff --git a/docs/qa-recheck.md b/docs/qa-recheck.md
@@ -1745,6 +1745,7 @@ C @ 1-vwssf0vdy4x.js:2
 - **TASK-623** — AD-ORD-54, AD-ORD-56
 - **TASK-624** — SF-OST-19
 - **TASK-650** — SF-CHK-30
+- **TASK-732** — AD-ORD-49
 - **TASK-735** — SF-UX-20, AD-UX-01, AD-UX-02
 - **TASK-736** — SF-UX-21
 - **TASK-757** — SF-UX-22, AD-CNT-31, AD-CNT-32, SYS-39
